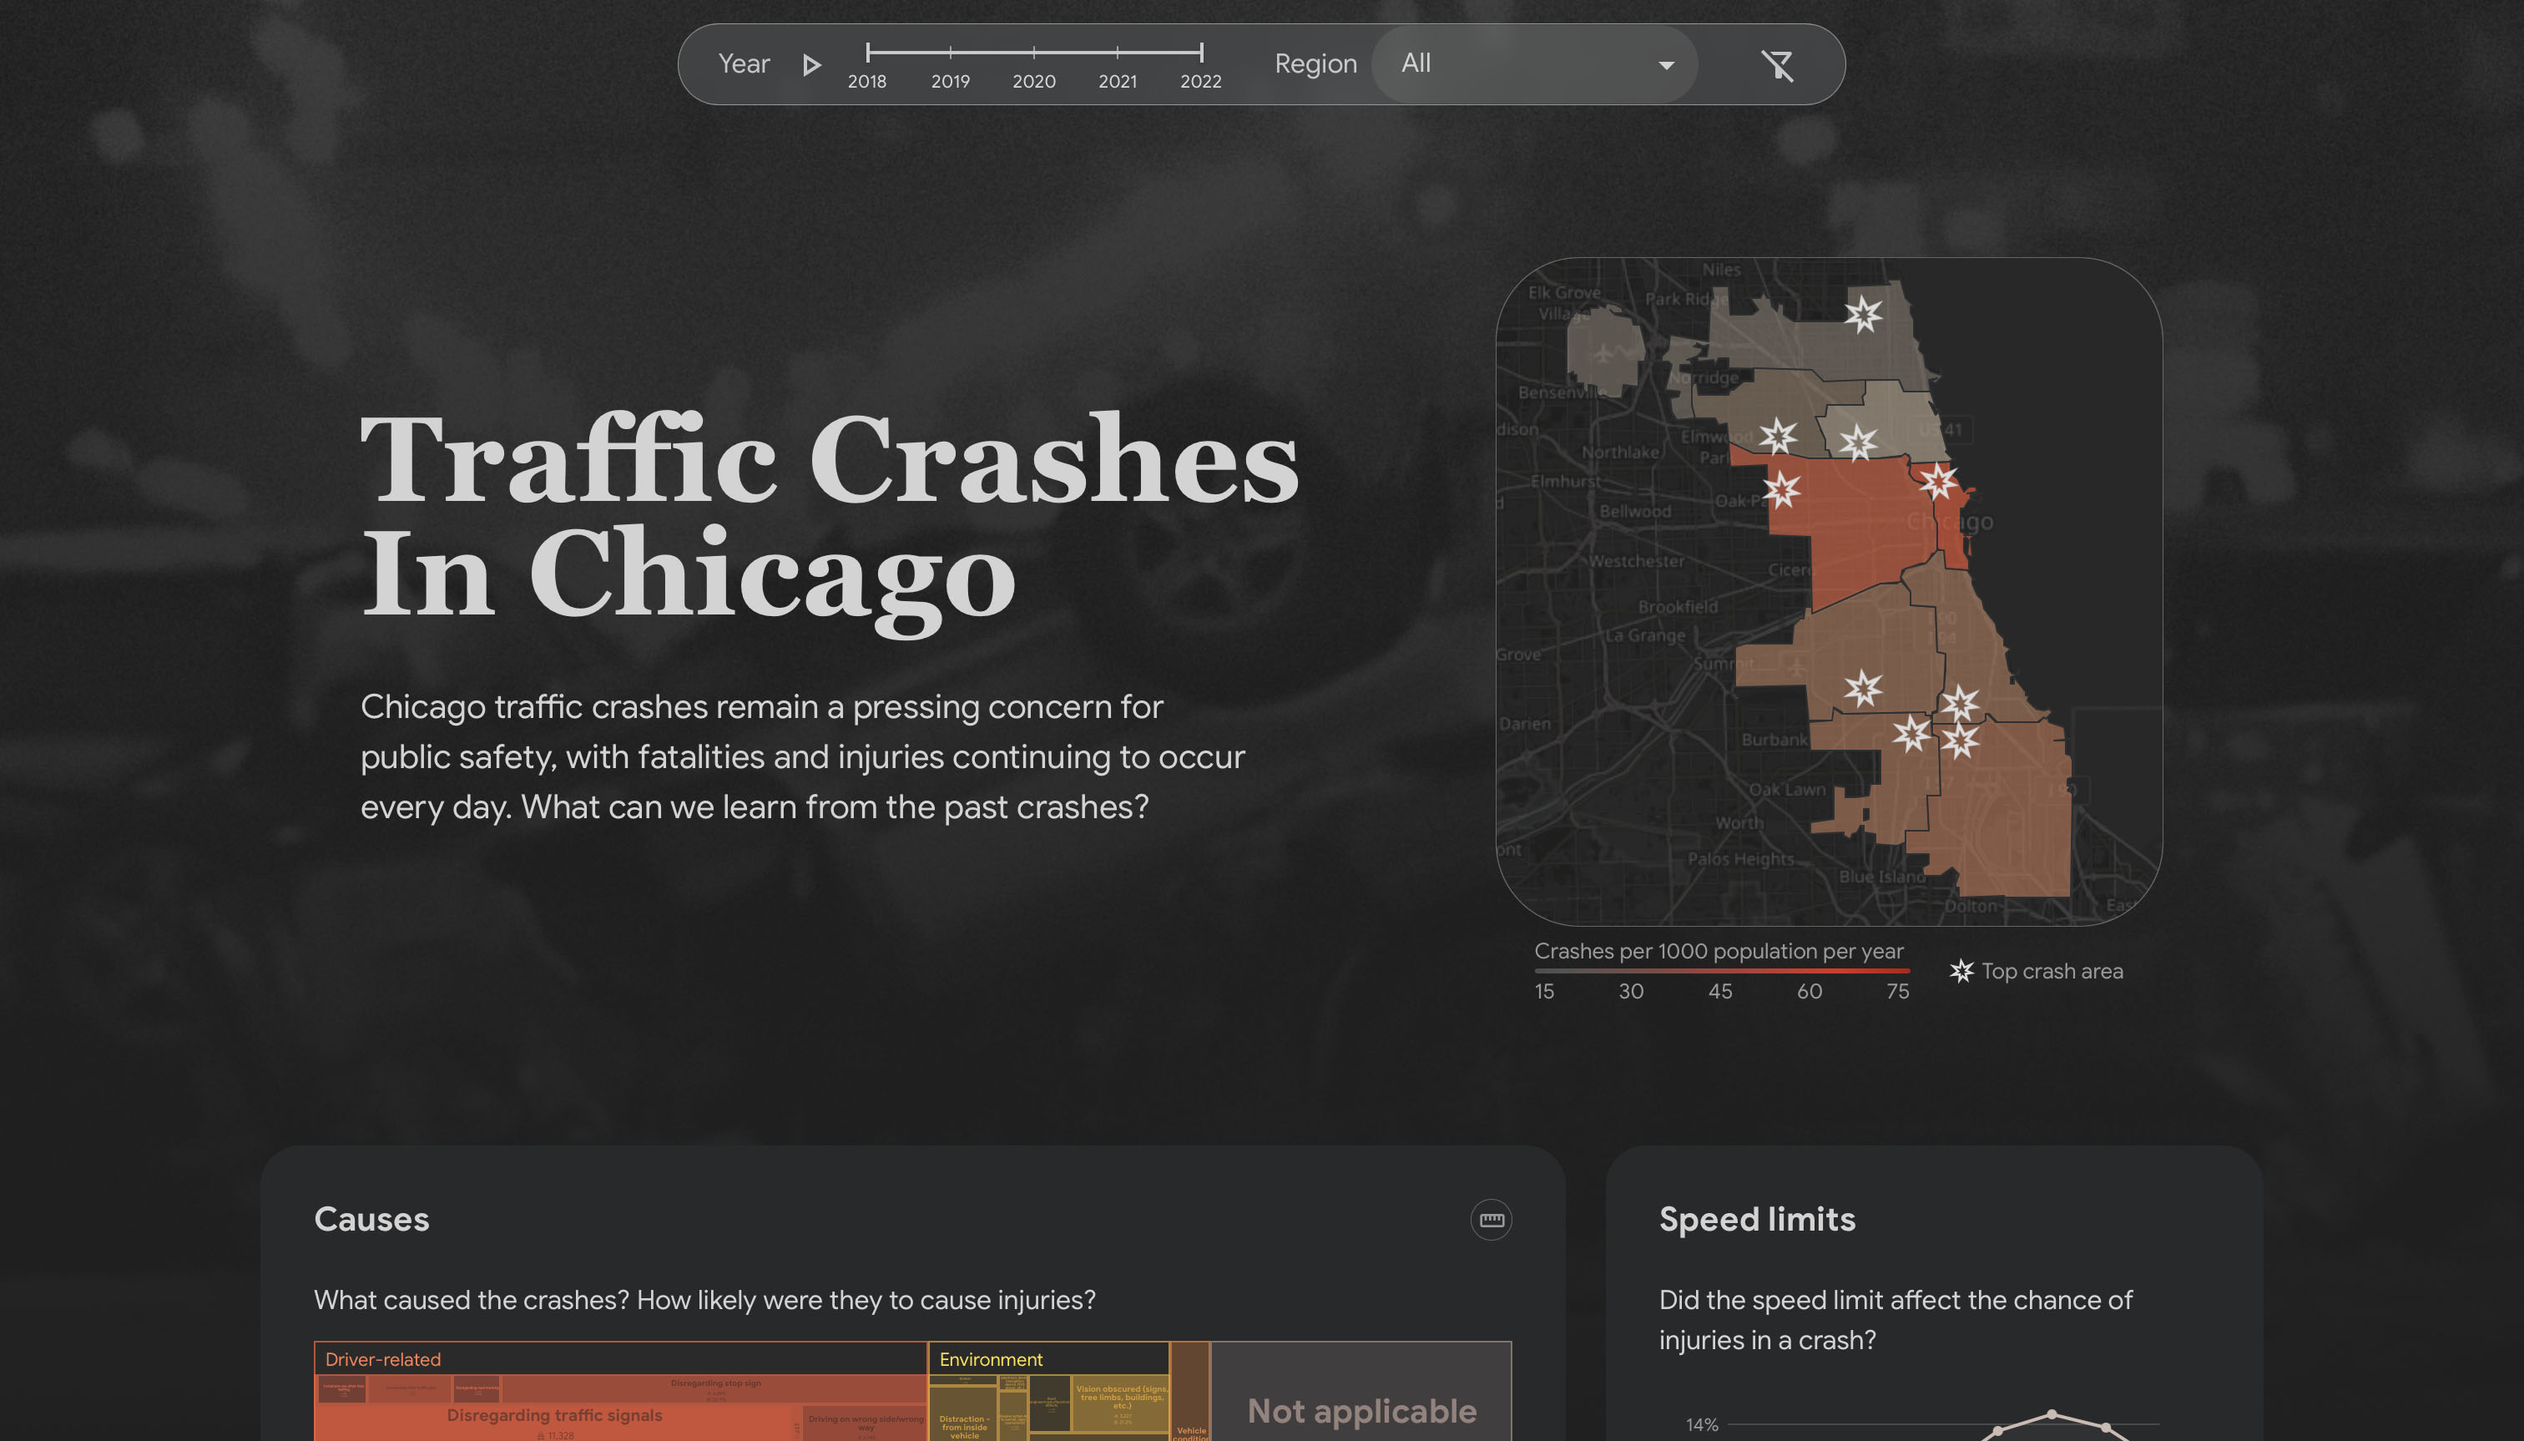
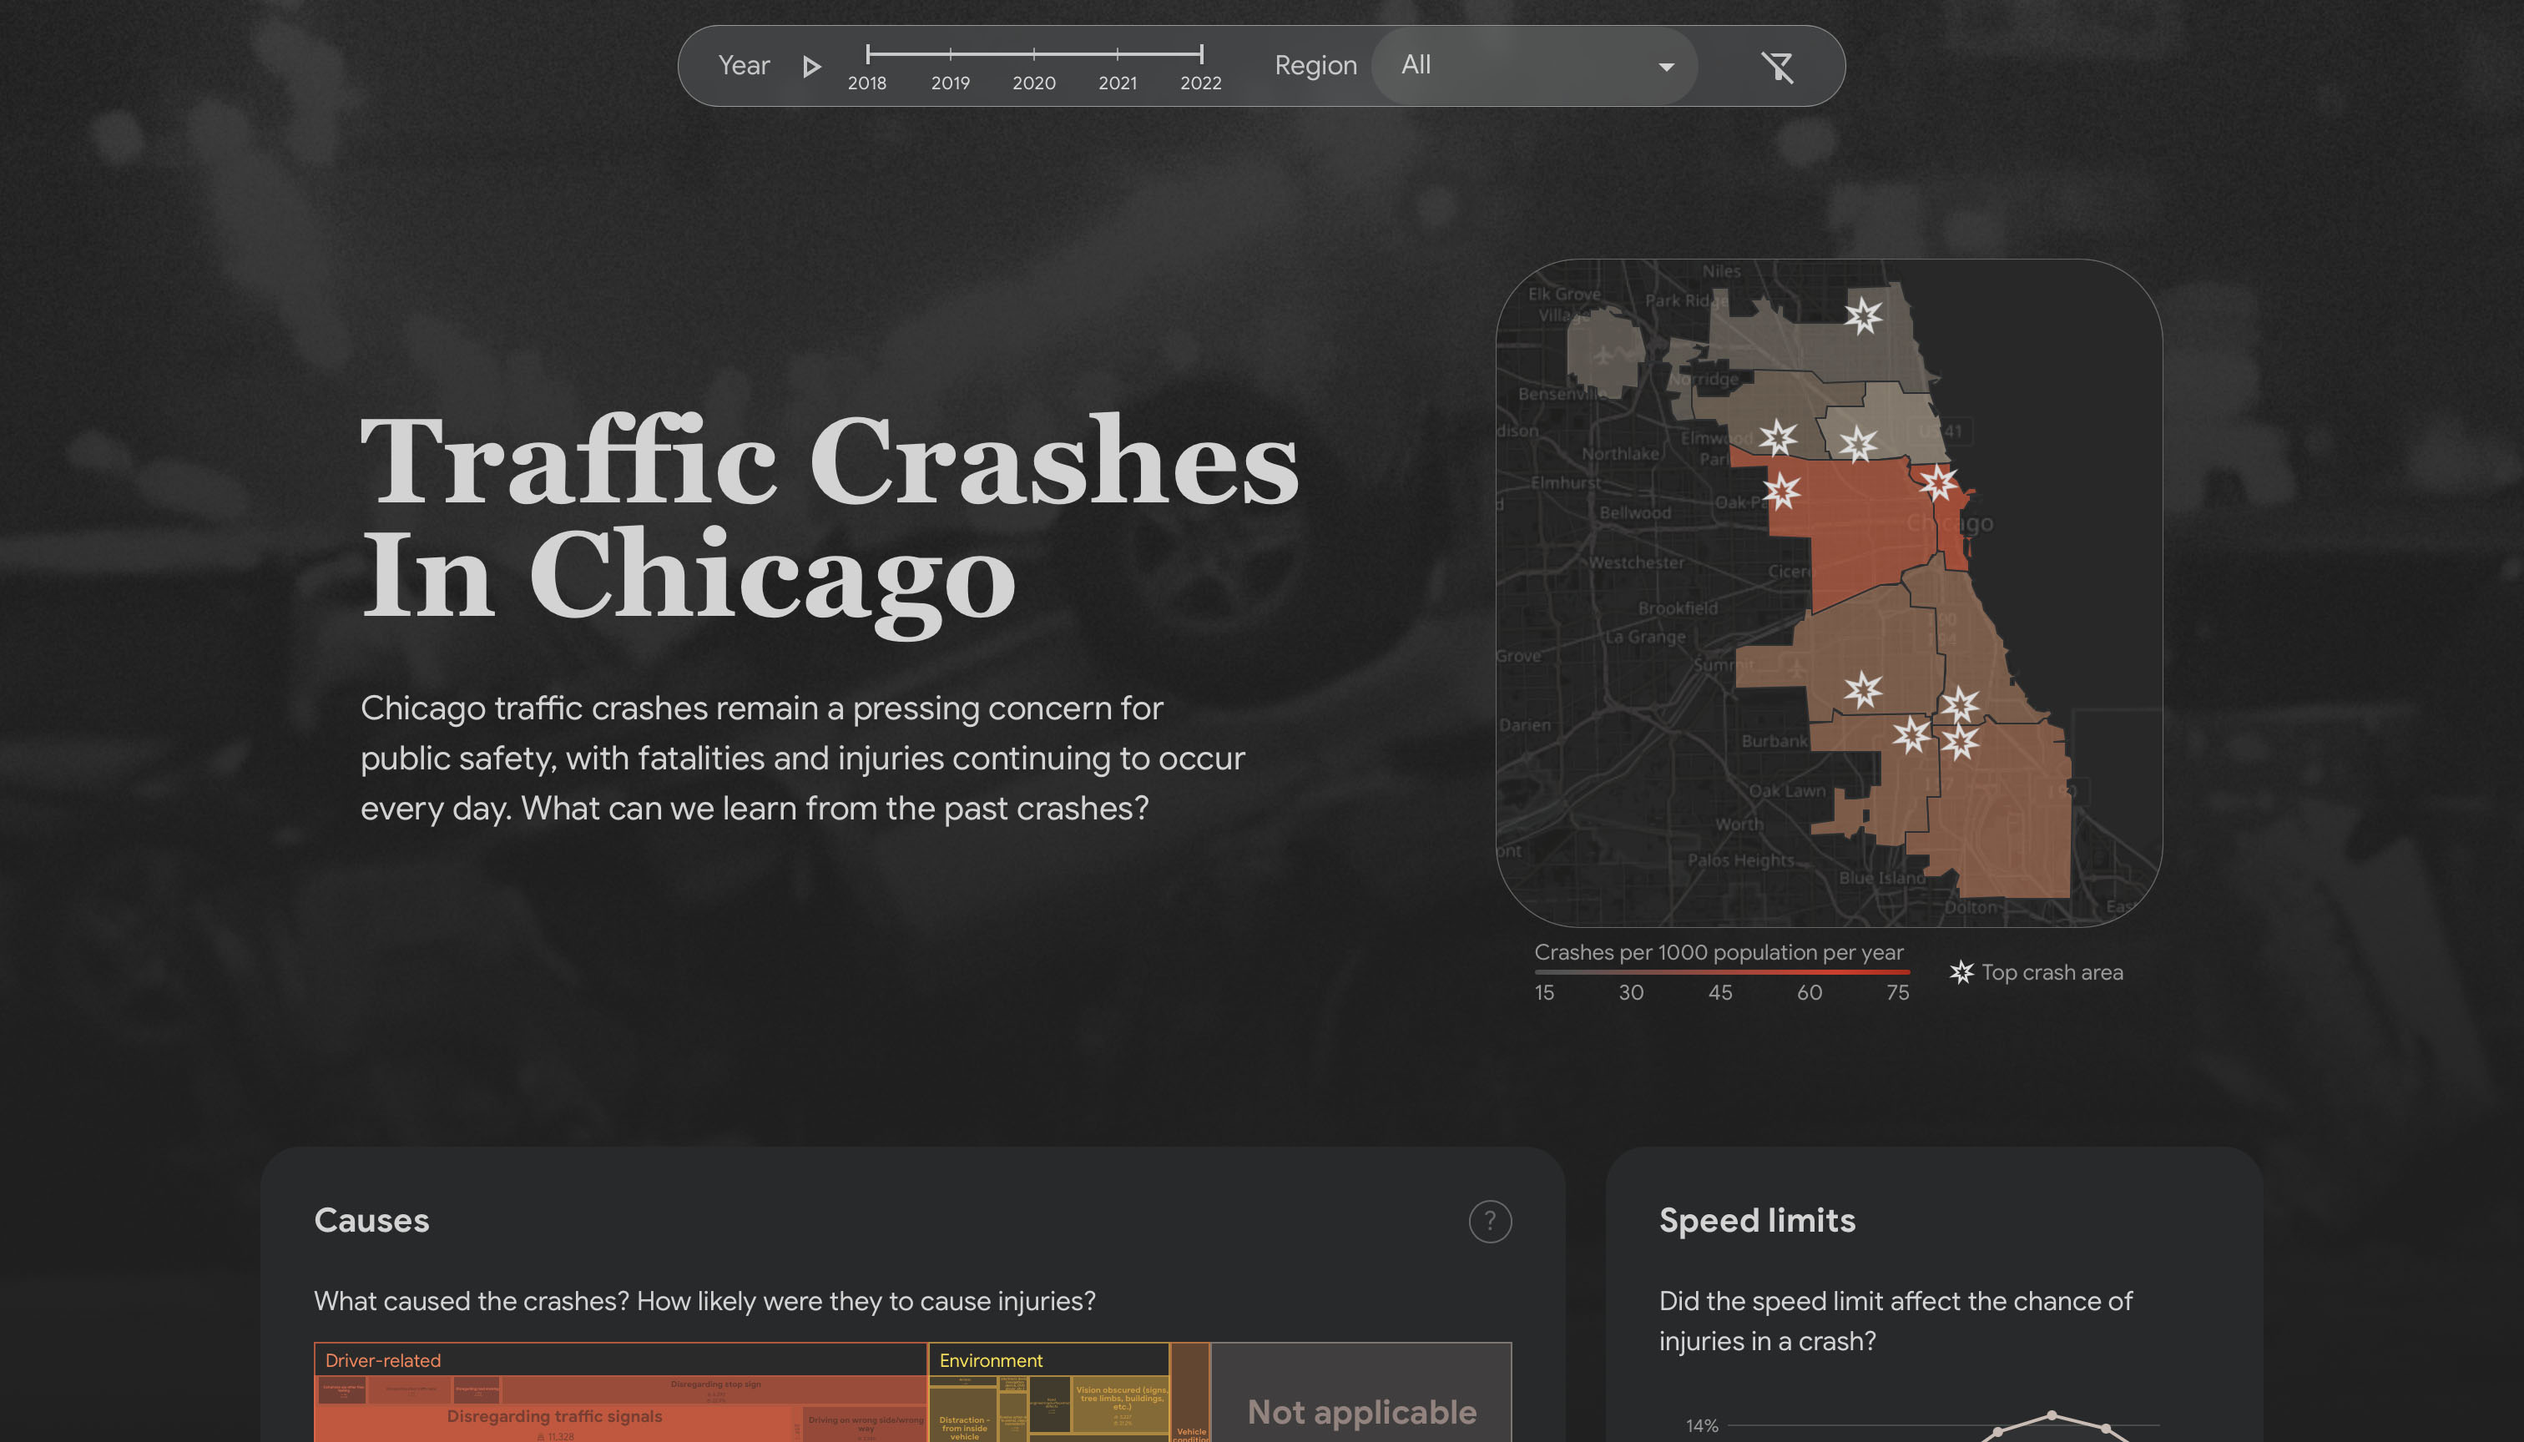
Final adjustments

diff --git a/src/App.js b/src/App.js
@@ -17,7 +17,6 @@ import Bubble from './charts/Bubble'
 import ScatterPlot from './charts/ScatterPlot'
 import Choropleth from './charts/Choropleth'
 import ChoroplethLegend from './charts/ChoroplethLegend'
-import StraightenOutlinedIcon from '@mui/icons-material/StraightenOutlined'
 
 export default function App () {
   const [yearRange, setYearRange] = useState([2018, 2022])
@@ -66,7 +65,7 @@ export default function App () {
         <div className={'chart fullChart'}>
           <div className={'chartTitle'}>
             <span>Environmental conditions</span>
-            <span id='NetworkLegendTrigger' className={'legendSymbolOutline'}><StraightenOutlinedIcon className={'legendSymbol'} /></span>
+            <span id='NetworkLegendTrigger' className={'legendSymbolOutline'}><span className={'legendSymbol'}>?</span></span>
             <div id='NetworkLegend' className={'floatingLegend'}>
               <Stack direction='row' divider={<Divider orientation="vertical" sx={{ borderWidth: '0.5px', borderColor: '#383a3e' }} flexItem />} spacing='1.5rem'>
                 <div id='NetworkOneFactor'>
@@ -202,7 +201,9 @@ export default function App () {
             <a href='https://www.vecteezy.com/members/104122094326139728765' target='_blank' rel='noreferrer'>trees</a>) and clipartix.com (
             <a href='https://clipartix.com/motorcycle-clipart-image-8614/' target='_blank' rel='noreferrer'>motorcycle</a>)
           </div>
+          <br />
           <div>Illustration for HKUST MSBD5005 Data Visualization (Group 11, Spring 2022/23)</div>
+          <div>Source code available on <a href='https://github.com/eddyyet/Crashes' target='_blank' rel='noreferrer'>Github</a></div>
           <div>All rights reserved</div>
         </div>
       </Stack>

diff --git a/src/charts/TreeMap.jsx b/src/charts/TreeMap.jsx
@@ -7,7 +7,6 @@ import TreeMapData from '../utils/TreeMapData'
 import causeData from '../data/crash_cause.json'
 import MinorCrashOutlinedIcon from '@mui/icons-material/MinorCrashOutlined'
 import MedicalServicesOutlinedIcon from '@mui/icons-material/MedicalServicesOutlined'
-import StraightenOutlinedIcon from '@mui/icons-material/StraightenOutlined'
 
 export default function TreeMap (props) {
   const filteredData = filter(causeData, props.year, props.side)
@@ -66,7 +65,7 @@ export default function TreeMap (props) {
     <div className={'chart wideChart'}>
       <div className={'chartTitle'}>
         <span>Causes</span>
-        <span id='TreeMapLegendTrigger' className={'legendSymbolOutline'}><StraightenOutlinedIcon className={'legendSymbol'} /></span>
+        <span id='TreeMapLegendTrigger' className={'legendSymbolOutline'}><span className={'legendSymbol'}>?</span></span>
         <div id='TreeMapLegend' className={'floatingLegend'}>
           <div className={'legendTitle'}>Number of crashes</div>
           <div className={'TreeMapSquares'}>

diff --git a/src/charts/ScatterPlot.jsx b/src/charts/ScatterPlot.jsx
@@ -5,7 +5,6 @@ import { ResponsiveScatterPlot } from '@nivo/scatterplot'
 import filter from '../utils/filter'
 import ScatterPlotData from '../utils/ScatterPlotData'
 import dayTimeData from '../data/crash_day_time.json'
-import StraightenOutlinedIcon from '@mui/icons-material/StraightenOutlined'
 
 export default function ScatterPlot (props) {
   const filteredData = filter(dayTimeData, props.year, props.side)
@@ -25,7 +24,7 @@ export default function ScatterPlot (props) {
     <div className={'chart narrowChart'}>
       <div className={'chartTitle'}>
         <span>Time</span>
-        <span id='ScatterPlotLegendTrigger' className={'legendSymbolOutline'}><StraightenOutlinedIcon className={'legendSymbol'} /></span>
+        <span id='ScatterPlotLegendTrigger' className={'legendSymbolOutline'}><span className={'legendSymbol'}>?</span></span>
         <div id='ScatterPlotLegend' className={'floatingLegend'}>
           <div className={'legendTitle'}>Number of crashes</div>
           <div className={'ScatterPlotLegendRow'}>

diff --git a/src/format/legend_floating.css b/src/format/legend_floating.css
@@ -4,7 +4,7 @@
   float: right;
   height: 1.5rem;
   width: 1.5rem;
-  border: 0.5px solid #666666;
+  border: 1px solid #666666;
   border-radius: 50%;
   display: flex;
   flex-direction: row;
@@ -14,8 +14,9 @@
 
 .legendSymbol {
   z-index: 3;
-  font-size: 1rem!important;
-  color: #999999;
+  font-size: 1rem;
+  font-weight: 100;
+  color: #666666;
 }
 
 .floatingLegend {

diff --git a/README.md b/README.md
@@ -6,6 +6,8 @@
 ![D3.js Badge](https://img.shields.io/badge/D3.js-F9A03C?logo=d3dotjs&logoColor=fff&style=flat-square)
 ![Leaflet Badge](https://img.shields.io/badge/Leaflet-199900?logo=leaflet&logoColor=fff&style=flat-square)
 
+Available at https://crashes.vercel.app
+
 <img src='./public/preview.jpg'>
 
 Data visualization of traffic crashes identifies patterns and trends, which helps prevent accidents and save lives. In a city as busy as Chicago, traffic crashes are unfortunately common, and understanding the data is crucial to improve traffic safety.
@@ -17,25 +19,22 @@ This project showcases the use of Python for data processing and React with vari
 
 ## Data visualization
 
+The raw data files (refer to the session "Source of data, map engine and images") are combined and pre-processed with Python in `./src/data/data_slicing.ipynb`. The data are loaded into the React application and aggregated by `./src/utils/filter.js` according to the selected year range and region, and then transformed to meet chart-specific requirements.
+
+The following visualizations are implemented:
 - Map (Choropleth) with crash rate (per 1000 people per year) by region and top crash areas
 - Treemap of crash causes and injury rates
 - Line chart of injury rates by speed limit
-- Bar chart and waffle chart of people involved by injury level
+- Bar chart and waffle chart of people involved by injury levels
 - Network graph of environemental conditions and injury level, measured by lift ratio
 - Bubble chart of crash forms with image illustration
 - Combination of heatmap and bubble chart of crash counts and injury rates by time of day and day of week
 <br />
 
-## Visit
-
-Dashboard website: https://????.vercel.app
-<br />
-<br />
-
 ## Local installation 
 
-1. Clone the files down to your directory, `git clone https://github.com/eddyyet/????.git`
-2. The repo root directory contains 1 folder, `????`. Use `cd ????` to enter the folder.
+1. Clone the files down to your directory, `git clone https://github.com/eddyyet/Crashes.git`
+2. The repo root directory contains 1 folder, `Crashes`. Use `cd Crashes` to enter the folder.
 3. Use `npm install` to install the dependencies.
 4. Use `npm start` to start the application in your browser.
 <br />
